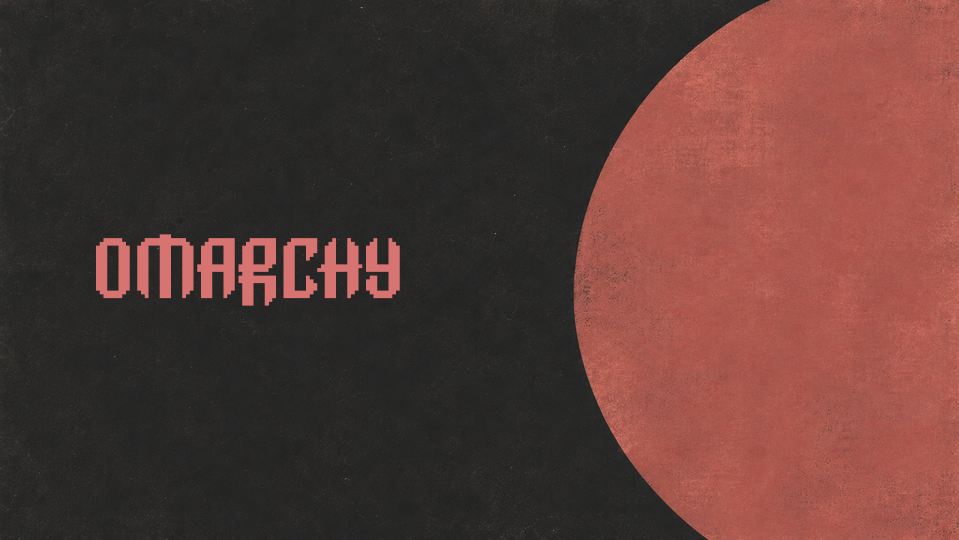
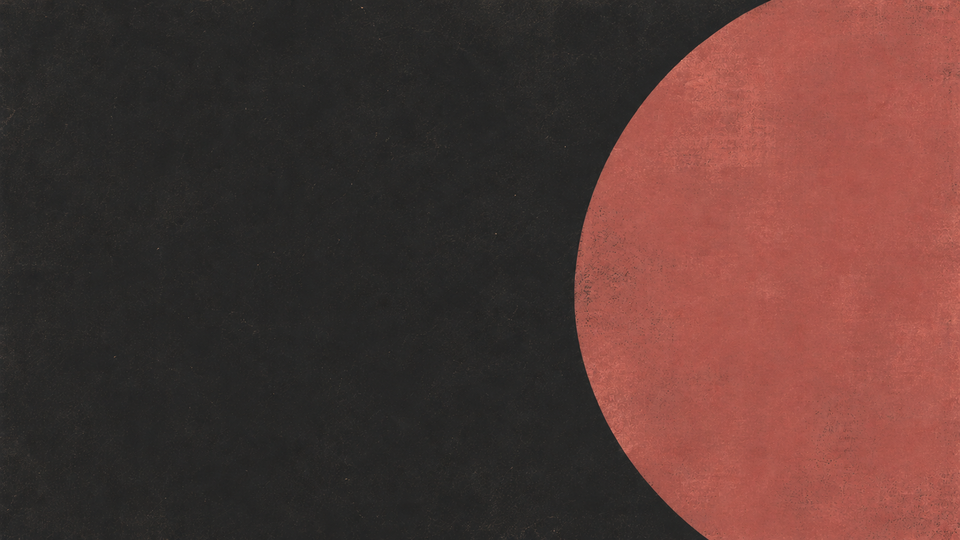
Streamline Terracotta wallpapers to three lossless WebP images

Changed region(s): [[0.0907, 0.4148, 0.4234, 0.563]]

diff --git a/README.md b/README.md
@@ -1,8 +1,8 @@
 # Terracotta
 
-A dark Omarchy theme with clay-colored window borders, charcoal backgrounds and muted rose accents. It includes a Foot palette, an OldTale configuration for LazyVim, eza directory colors and five 4K wallpapers (3840 × 2160).
+A dark Omarchy theme with clay-colored window borders, charcoal backgrounds and muted rose accents. It includes a Foot palette, an OldTale configuration for LazyVim, eza directory colors and three 4K wallpapers (3840 × 2160).
 
-[![Omarchy wordmark in terracotta on the vinyl wallpaper](preview.png)](backgrounds/00-terracotta-vinyl.webp)
+[![Vinyl wallpaper](preview.png)](backgrounds/00-vinyl.webp)
 
 ## Install on Omarchy
 

diff --git a/THIRD_PARTY_NOTICES.md b/THIRD_PARTY_NOTICES.md
@@ -70,5 +70,5 @@ SOFTWARE.
 
 ## Wallpaper
 
-Omarchy Rose is a recolor of the Omarchy Tokyo Night wallpaper (backgrounds/omarchy.webp).
+Omarchy Terra is a recolor of the Omarchy Tokyo Night wallpaper (backgrounds/omarchy.webp).
 https://github.com/basecamp/omarchy
